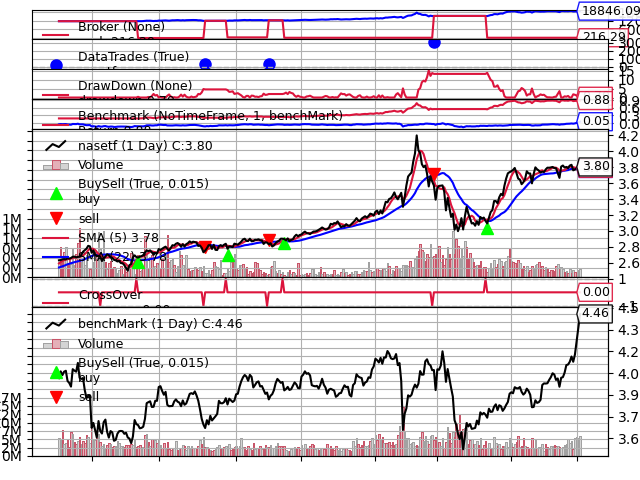
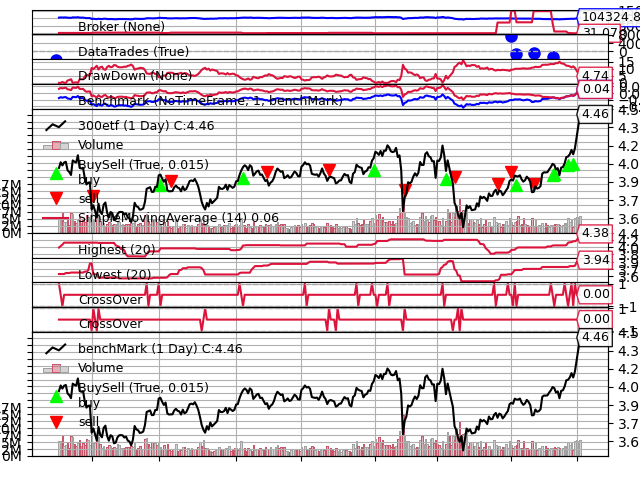
实现了海龟交易策略。

diff --git a/47/Turtle.py b/47/Turtle.py
@@ -1,0 +1,121 @@
+# coding:utf-8
+# 海龟策略实现
+
+
+import backtrader as bt
+import backtrader.indicators as bi
+import backtest
+import pandas as pd
+import math
+import matplotlib.pyplot as plt
+
+
+class TurtleStrategy(bt.Strategy):
+    params = (
+        ("long_period", 20),
+        ("short_period", 10),
+        ("printlog", False),
+    )
+    
+    def __init__(self):
+        self.order = None
+        self.buyprice = 0
+        self.comm = 0
+        self.buy_size = 0
+        self.buy_count = 0
+        # 用到的指标
+        self.H_line = bi.Highest(self.data.high(-1), period = self.p.long_period)
+        self.L_line = bi.Lowest(self.data.low(-1), period = self.p.long_period)
+        self.TR = bi.Max((self.data.high(0) - self.data.low(0)), abs(self.data.close(-1) - self.data.high(0)), abs(self.data.close(-1) - self.data.low(0)))
+        self.ATR = bi.SimpleMovingAverage(self.TR, period = 14)
+        # 价格与上下轨线交叉
+        self.buy_signal = bt.ind.CrossOver(self.data.close(0), self.H_line)
+        self.sell_signal = bt.ind.CrossOver(self.data.close(0), self.L_line)
+        
+    def next(self):
+        if self.order:
+            return
+            
+        # 入场:价格突破上轨线且空仓时
+        if self.buy_signal > 0 and self.buy_count == 0:
+            self.buy_size = math.ceil((self.broker.getvalue() * 0.01 / self.ATR) / 100) * 100
+            self.sizer.p.stake = self.buy_size
+            self.buy_count = 1
+            self.order = self.buy()
+            self.log("入场")
+            
+        # 加仓: 价格上涨了买入价的0.5ATR且加仓次数少于3次(含)
+        elif self.data.close > self.buyprice + 0.5*self.ATR[0] and self.buy_count > 0 and self.buy_count <= 4:
+            self.buy_size = math.ceil((self.broker.get_cash() * 0.01 / self.ATR) / 100) * 100
+            self.sizer.p.stake = self.buy_size
+            self.order = self.buy()
+            self.buy_count += 1
+            self.log("加仓")
+            
+        # 离场: 价格跌破下轨线且持仓时
+        elif self.sell_signal < 0 and self.buy_count > 0:
+            self.order = self.sell()
+            self.buy_count = 0
+            self.log("离场")
+            
+        # 止损: 价格跌破买入价的2个ATR且持仓时
+        elif self.data.close < (self.buyprice - 2*self.ATR[0]) and self.buy_count > 0:
+            self.order = self.sell()
+            self.buy_count = 0
+            self.log("止损")
+            
+            
+    # 输出交易记录
+    def log(self, txt, dt = None, doprint = False):
+        if self.params.printlog or doprint:
+            dt = dt or self.datas[0].datetime.date(0)
+            print('%s, %s' % (dt.isoformat(), txt))
+            
+    def notify_order(self, order):
+        # 有交易提交/被接受，啥也不做
+        if order.status in [order.Submitted, order.Accepted]:
+            return
+        # 交易完成，报告结果
+        if order.status in [order.Completed]:
+            if order.isbuy():
+                self.log(
+                    '执行买入, 价格: %.2f, 成本: %.2f, 手续费 %.2f' %
+                    (order.executed.price,
+                     order.executed.value,
+                     order.executed.comm))
+                self.buyprice = order.executed.price
+                self.comm += order.executed.comm
+            else:
+                self.log(
+                    '执行卖出, 价格: %.2f, 成本: %.2f, 手续费 %.2f' %
+                    (order.executed.price,
+                     order.executed.value,
+                     order.executed.comm))
+                self.comm += order.executed.comm
+        elif order.status in [order.Canceled, order.Margin, order.Rejected]:
+            self.log("交易失败")
+        self.order = None
+        
+    # 输出手续费
+    def stop(self):
+        self.log("手续费:%.2f 成本比例:%.5f" % (self.comm, self.comm/self.broker.getvalue()))
+        
+        
+if __name__ == "__main__":
+    start = "2018-01-01"
+    end = "2020-07-05"
+    name = ["300etf"]
+    code = ["510300"]
+    backtest = backtest.BackTest(TurtleStrategy, start, end, code, name, 100000)
+    result = backtest.run()
+    # backtest.output()
+    print(result)
+    result = backtest.optRun(long_period = range(20, 60))
+    plt.figure()
+    plt.plot(result.年化收益率)
+    plt.savefig("海龟策略参数优化.png")
+    ret = result.loc[:, "年化收益率"]
+    maxindex = ret[ret == ret.max()].index
+    bestResult = result.loc[maxindex,:]
+    print(bestResult.loc[:, ["夏普比率", "年化收益率"]])
+    
